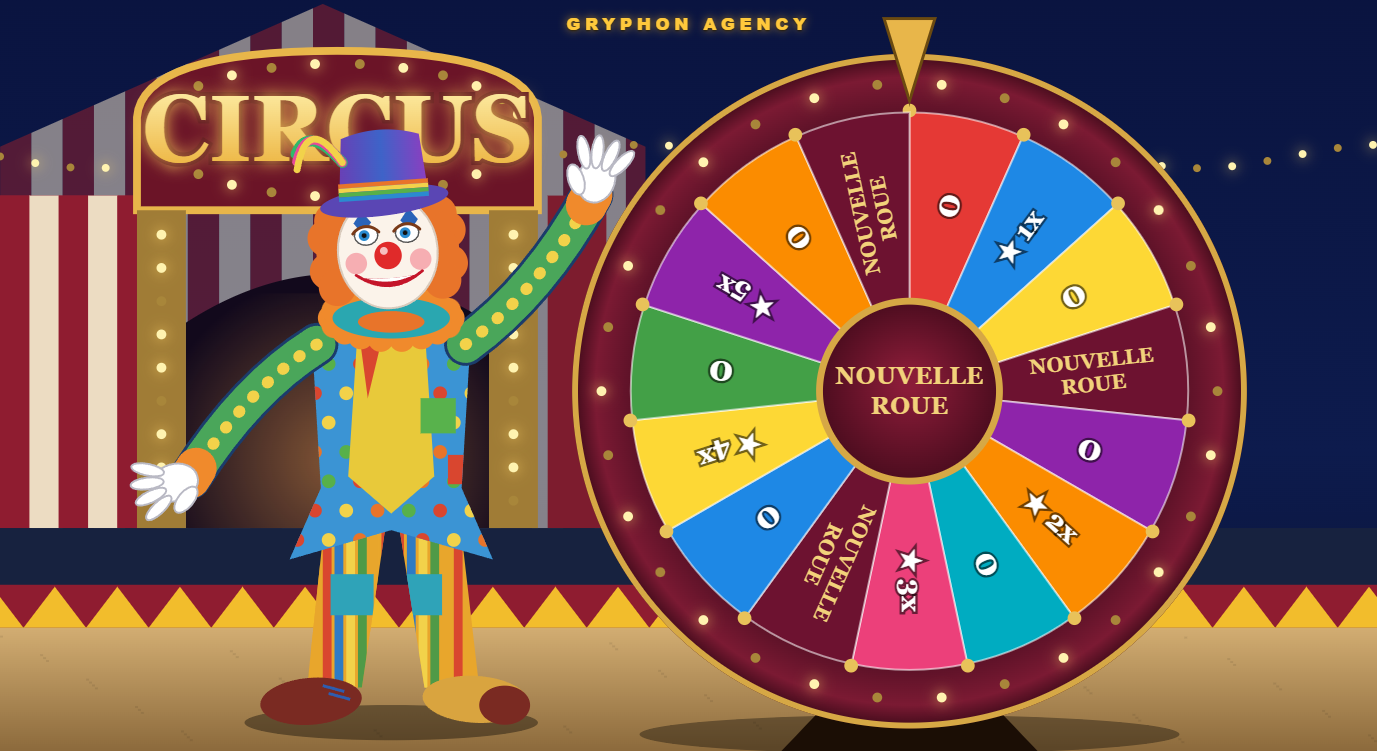
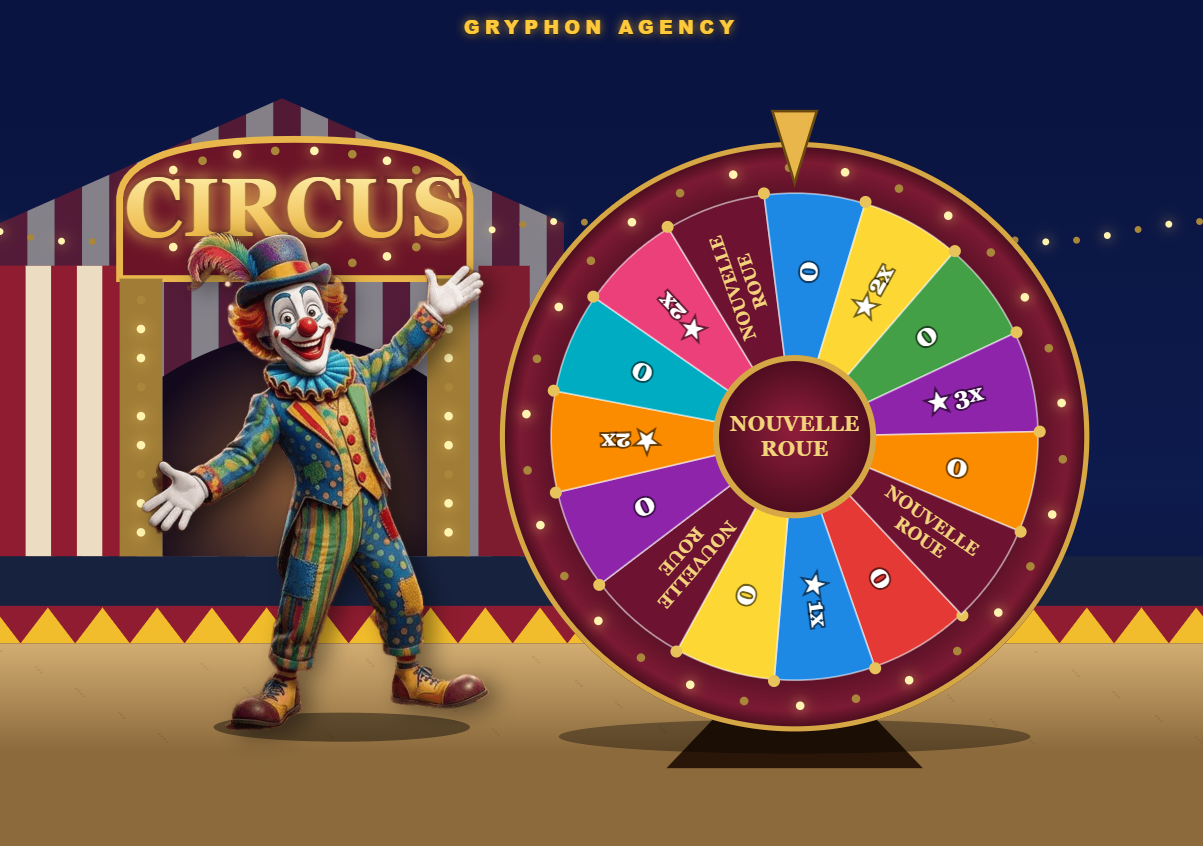
Roue du Cirque: clown de la reference, nouveaux multiplicateurs

diff --git a/roue-du-cirque.html b/roue-du-cirque.html
@@ -92,10 +92,17 @@ html,body{margin:0;height:100%;overflow:hidden;background:#050b1f;font-family:Ar
 const WS_URL = 'wss://jeu6boite.onrender.com';
 const $ = id => document.getElementById(id);
 const W = 1408, H = 768, N = 15, SEG = 360 / N;
-const DEFAULT_SECTORS = ['0','1','0','NEW','0','2','0','3','NEW','0','4','0','5','0','NEW'];
+const DEFAULT_SECTORS = ['0','1','0','NEW','0','2','0','2','NEW','0','2','0','3','0','NEW'];
 const COLORS = ['#e53935','#1e88e5','#fdd835','#43a047','#8e24aa','#fb8c00','#00acc1','#ec407a'];
-let CFG = { win: 10, newp: 12, dur: 6, voice: true, video: '', sectors: DEFAULT_SECTORS.slice() };
-try { Object.assign(CFG, JSON.parse(localStorage.getItem('cw-cfg') || '{}')); } catch (e) {}
+const CFG_VER = 2;
+let CFG = { v: CFG_VER, win: 55, newp: 10, dur: 6, voice: true, video: '', sectors: DEFAULT_SECTORS.slice() };
+try {
+  const saved = JSON.parse(localStorage.getItem('cw-cfg') || '{}');
+  // anciens réglages (v1) : on repart sur les nouveaux secteurs et pourcentages
+  if (saved.v !== CFG_VER) { delete saved.sectors; delete saved.win; delete saved.newp; }
+  Object.assign(CFG, saved);
+} catch (e) {}
+CFG.v = CFG_VER;
 if (!Array.isArray(CFG.sectors) || CFG.sectors.length !== N) CFG.sectors = DEFAULT_SECTORS.slice();
 const save = () => localStorage.setItem('cw-cfg', JSON.stringify(CFG));
 
@@ -256,7 +263,34 @@ function glove(x, y, rot) {
   ctx.beginPath(); ctx.ellipse(-20, -10, 8, 16, -.6, 0, 7); ctx.fill(); ctx.stroke();
   ctx.restore();
 }
+const clownImg = new Image(); let clownReady = false;
+clownImg.onload = () => { clownReady = true; };
+clownImg.src = 'images-vitrine/clown-cirque.png';
 function drawClown(t) {
+  if (!clownReady) { drawClownVector(t); return; }
+  const e = excite, sp = 1 + e * 1.6;
+  const ph = t * 2.6 * sp, hop = Math.abs(Math.sin(ph)) ;
+  const lift = e * hop * 46 + Math.max(0, Math.sin(t * 1.3)) * 6;
+  const squash = 1 + Math.sin(ph * 2) * .018 - (e ? (1 - hop) * .05 * e : 0);
+  const H = 585, W = H * clownImg.width / clownImg.height;
+  const fx = 400, fy = 742;
+  // ombre au sol qui rétrécit quand il saute
+  ctx.save(); ctx.translate(fx, fy);
+  ctx.fillStyle = `rgba(0,0,0,${.42 - lift / 220})`; ctx.beginPath(); ctx.ellipse(0, -2, 150 - lift * .9, 17 - lift * .15, 0, 0, 7); ctx.fill();
+  // pivot aux pieds : balancement, étirement et pseudo-rotation 3D (cisaillement + échelle en X)
+  ctx.translate(0, -lift);
+  ctx.rotate(Math.sin(t * 1.7 * sp) * .035 + e * Math.sin(t * 7) * .03);
+  const turn = Math.sin(t * 1.1 * sp);
+  ctx.transform(1 - Math.abs(turn) * .035, 0, turn * .05, squash, 0, 0);
+  ctx.shadowColor = 'rgba(0,0,0,.45)'; ctx.shadowBlur = 22; ctx.shadowOffsetX = 10; ctx.shadowOffsetY = 6;
+  ctx.drawImage(clownImg, -W * .52, -H, W, H);
+  ctx.shadowColor = 'transparent';
+  // reflet doux de projecteur
+  ctx.globalCompositeOperation = 'source-atop';
+  ctx.restore();
+  ctx.globalCompositeOperation = 'source-over';
+}
+function drawClownVector(t) {
   const e = excite, sp = 1 + e * 1.6;
   const bob = Math.sin(t * 3 * sp) * 6 - e * Math.abs(Math.sin(t * 6)) * 22;
   ctx.save(); ctx.translate(400, 735);
@@ -343,6 +377,13 @@ function pickSector() {
   const r = Math.random() * 100;
   let list = r < CFG.win ? groups.win : r < CFG.win + CFG.newp ? groups.new : groups.zero;
   if (!list.length) list = groups.zero.length ? groups.zero : CFG.sectors.map((_, i) => i);
+  if (list === groups.win) {
+    // les gros multiplicateurs sont rares : poids = 1 / multiplicateur^4
+    const w = list.map(i => 1 / Math.pow(Math.max(1, mult(CFG.sectors[i])), 4));
+    let x = Math.random() * w.reduce((a, b) => a + b, 0);
+    for (let j = 0; j < list.length; j++) { x -= w[j]; if (x <= 0) return list[j]; }
+    return list[list.length - 1];
+  }
   return list[Math.floor(Math.random() * list.length)];
 }
 function startSpin(job) {
@@ -519,7 +560,7 @@ function buildSectors() {
     box.append(el);
   });
 }
-$('reset').onclick = () => { CFG.sectors = DEFAULT_SECTORS.slice(); CFG.win = 10; CFG.newp = 12; save(); buildSectors(); $('winPct').value = 10; $('newPct').value = 12; };
+$('reset').onclick = () => { CFG.sectors = DEFAULT_SECTORS.slice(); CFG.win = 55; CFG.newp = 10; save(); buildSectors(); $('winPct').value = 55; $('newPct').value = 10; };
 buildSectors(); applyVideo();
 (function drag() {
   const p = $('panel'), h = $('phead'); let sx, sy, px, py, on = false;

diff --git a/serveur.js b/serveur.js
@@ -1862,6 +1862,7 @@ const server = http.createServer((req, res) => {
         ['/images-vitrine/course-de-billes-apercu.png', [path.join(__dirname, 'images-vitrine', 'course-de-billes-apercu.png'), 'image/png']],
         ['/images-vitrine/peche-aux-canards-apercu.png', [path.join(__dirname, 'images-vitrine', 'peche-aux-canards-apercu.png'), 'image/png']],
         ['/images-vitrine/roue-du-cirque-apercu.png', [path.join(__dirname, 'images-vitrine', 'roue-du-cirque-apercu.png'), 'image/png']],
+        ['/images-vitrine/clown-cirque.png', [path.join(__dirname, 'images-vitrine', 'clown-cirque.png'), 'image/png']],
         ['/matter.min.js', [matterFile, 'text/javascript; charset=utf-8']],
         ['/node_modules/matter-js/build/matter.min.js', [matterFile, 'text/javascript; charset=utf-8']],
         ['/ballon-foot-reel.jpg', [footballImage, 'image/jpeg']]
